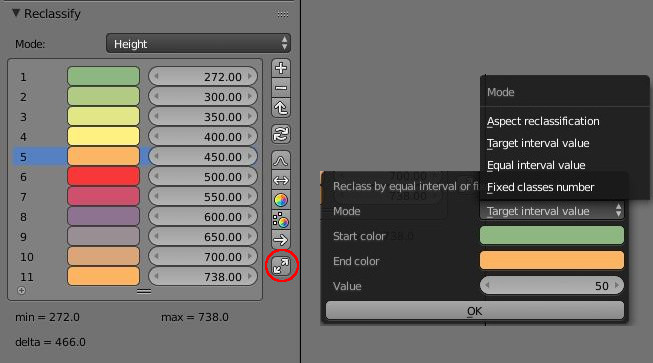
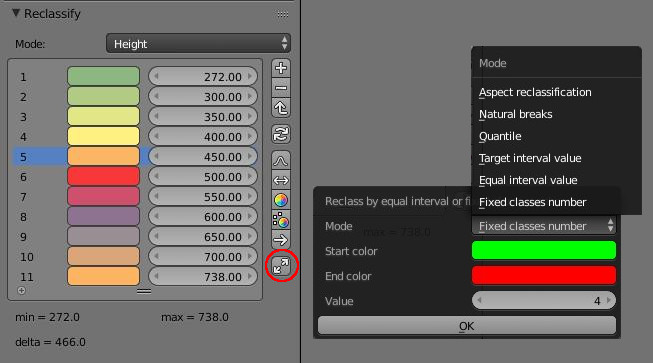
update wiki

Changed region(s): [[0.4594, 0.1212, 1.0, 0.9394]]

diff --git a/Reclassify-color-gradient.md b/Reclassify-color-gradient.md
@@ -95,6 +95,7 @@ This tool allows to automatically classify the values following specified rules:
 ![](https://raw.githubusercontent.com/wiki/domlysz/blenderGIS/images/analysis_reclassify_auto_interval.jpg)
 * **Target interval value** make a stop for each multiple of the target value. This method is ideal if you want to classifying with an *absolute step* value. The intervals will not be necessary equals.
 ![](https://raw.githubusercontent.com/wiki/domlysz/blenderGIS/images/analysis_reclassify_auto_target.jpg)
-* **Quantile** classification assigns the same number of data values to each class.
+* **Quantile** classification assigns the same number of data values to each class.  
+* **Natural break** classification determine the best arrangement of values into different classes. It use an optimization on kmeans algorithm to the case of one dimensionnal data. Results are similar to the well know Jenks natural breaks classification.
 * **Aspect reclassification** is a specific method dedicated to aspect map. The number of classes determine the number of azimuth represented.
 ![](https://raw.githubusercontent.com/wiki/domlysz/blenderGIS/images/analysis_reclassify_auto_aspect.jpg)
